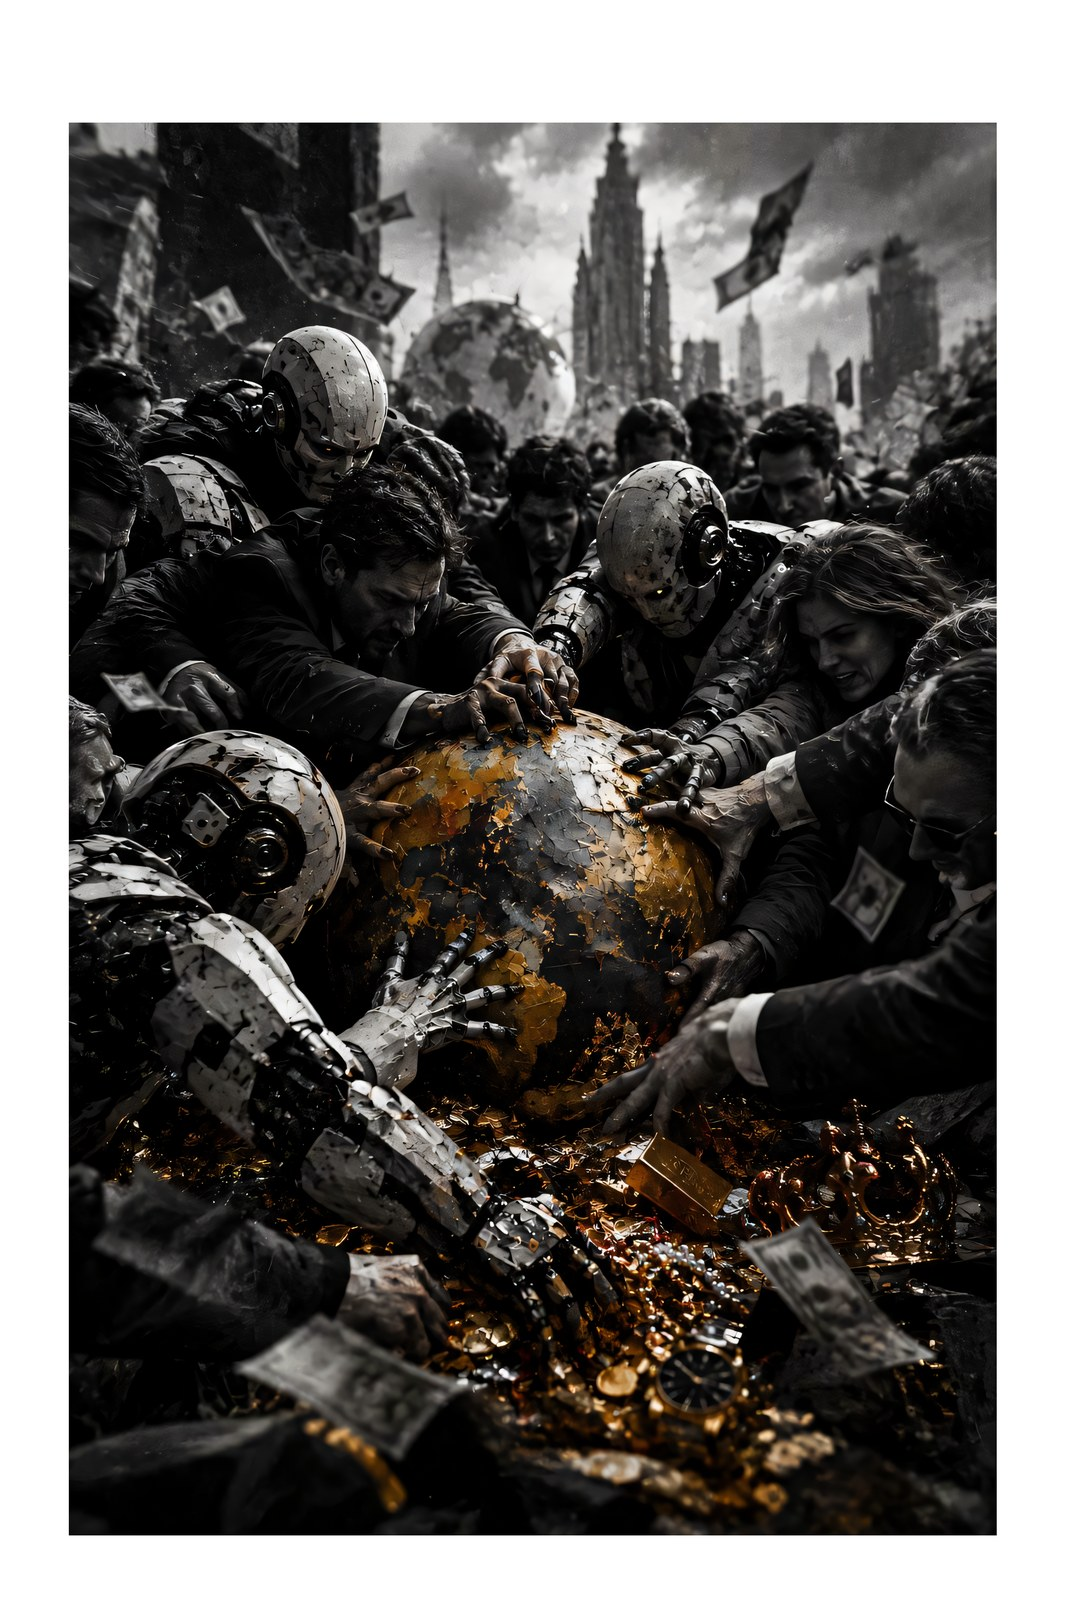
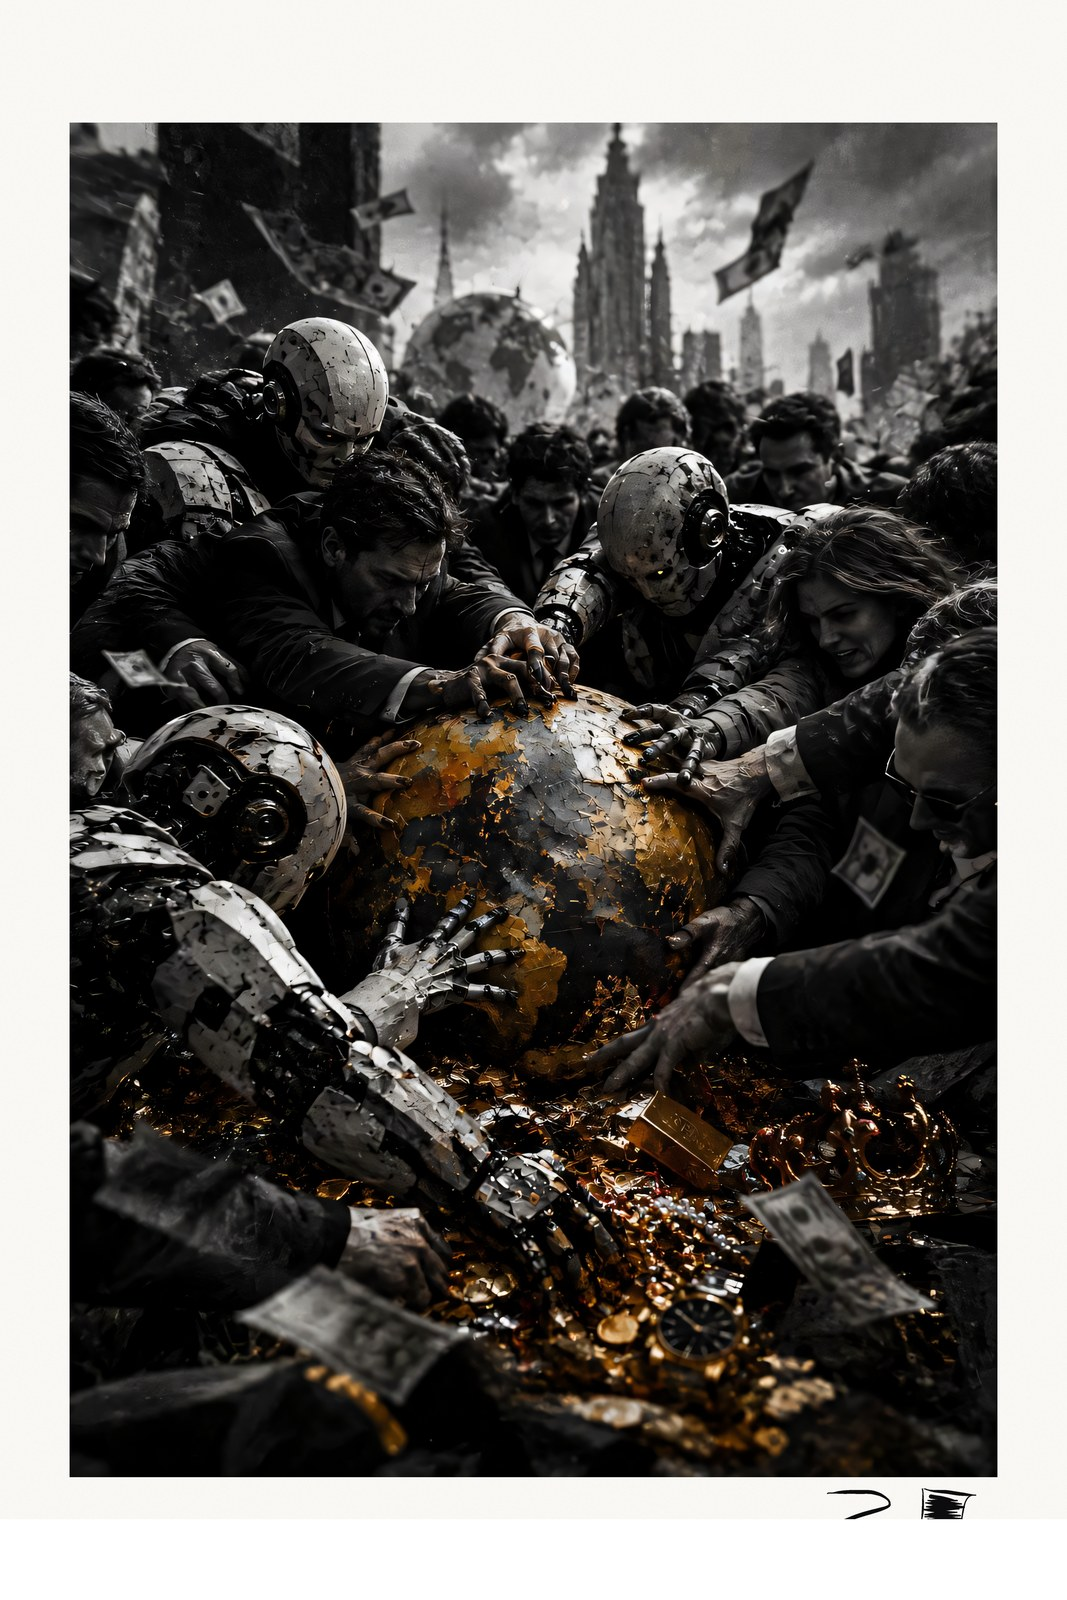
Certificados fuera del repo, precios 350/450 y sala de Avaricia con la plantilla y la firma

diff --git a/obras/avaricia.html b/obras/avaricia.html
@@ -7,7 +7,7 @@
 <meta name="description" content="Avaricia (2026), obra original de David Ortiz. Pieza única 1 de 1, técnica mixta, firmada a mano y con certificado. 40 x 60 cm. Adquiérela en MNEMOS.">
 <meta property="og:title" content="Avaricia, 2026 · Obra original de David Ortiz">
 <meta property="og:description" content="Pieza única 1 de 1. Técnica mixta, firmada y con certificado.">
-<meta property="og:image" content="https://mnemosgallery.neolabs.me/assets/obras/obra03-1600.jpg">
+<meta property="og:image" content="https://mnemosgallery.neolabs.me/assets/obras/obra02-1066.jpg">
 <meta property="og:type" content="website">
 <link rel="canonical" href="https://mnemosgallery.neolabs.me/obras/avaricia.html">
 <link rel="icon" href="../assets/logo/favicon-512.png">
@@ -15,35 +15,42 @@
 </head>
 <body>
 
-<section class="sala">
-  <div class="wrap sala-in">
-
-    <div class="sala-cab">
-      <a href="../index.html">MNEMOS · Museo de arte</a>
-      <a href="../index.html#coleccion">← Volver a la exposición</a>
+<header class="sala-bar">
+  <div class="wrap sala-bar-in">
+    <a class="sala-marca" href="../index.html">MNEMOS</a>
+    <div class="sala-nav">
+      <span class="sala-cuenta">Colección Future · Obra 3 de 12</span>
+      <a class="sala-volver" href="../index.html#coleccion">&larr; Volver a la exposición</a>
     </div>
+  </div>
+</header>
 
-    <div class="sala-obra">
-      <img src="../assets/obras/obra03-1600.jpg" alt="Avaricia, obra original de David Ortiz: decenas de manos de empresarios y de robots arrancan el oro de un mundo agotado" width="1066" height="1600">
-    </div>
+<main class="sala">
+  <div class="wrap">
+
+    <figure class="sala-obra">
+      <button class="sala-lienzo" id="abre-lupa" aria-label="Ver la obra en grande" aria-controls="lupa">
+        <img src="../assets/obras/obra02-1066.jpg" alt="Avaricia, obra original de David Ortiz: decenas de manos de empresarios y de robots arrancan el oro del mundo" width="1066" height="1599">
+      </button>
+      <figcaption class="sala-pie-foto">Avaricia · 2026 · Técnica mixta<span>Pulsa la obra para verla en grande</span></figcaption>
+    </figure>
 
     <div class="sala-pie">
 
       <div>
         <div class="cartela">
           <h1>Avaricia</h1>
-          <div class="anio">2026</div>
+          <div class="anio">2026 · Técnica mixta</div>
           <dl>
-            <dt>Técnica</dt><dd>Técnica mixta. Impresión giclée sobre papel fine art mate de archivo 200 g/m², libre de ácido</dd>
-            <dt>Medidas</dt><dd>40 × 60 cm</dd>
+            <dt>Medidas</dt><dd>40 × 60 cm (16 × 24 pulgadas)</dd>
             <dt>Soporte</dt><dd>Papel fine art mate de archivo 200 g/m², libre de ácido</dd>
+            <dt>Impresión</dt><dd>Giclée de 12 tintas</dd>
             <dt>Edición</dt><dd>Pieza única. No se volverá a imprimir</dd>
-            <dt>Firma</dt><dd>Firmada a mano en el margen</dd>
-            <dt>Certificado</dt><dd>Incluido, numerado y verificable</dd>
+            <dt>Firma</dt><dd>Firma del artista en el margen de la obra</dd>
+            <dt>Certificado</dt><dd>Incluido, numerado y verificable con código</dd>
           </dl>
           <div class="unica">Pieza única · 1 de 1</div>
         </div>
-        <img class="sello-sala" src="../assets/logo/mnemos-simbolo.png" alt="Sello de MNEMOS">
       </div>
 
       <div class="hist">
@@ -51,31 +58,63 @@
         <p>Un mundo ya cubierto de oro y decenas de manos arrancándolo a la vez: empresarios de traje, robots humanoides, humanos a medio construir y humanos que ya no tienen nada de humanos. No se reparten nada: forcejean. Todos tiran en la misma dirección y nadie suelta.</p>
         <p>La avaricia no es un vicio del pasado: es el motor del futuro. La inteligencia artificial, las máquinas y la fusión entre el hombre y el robot no vienen a repartir el mundo, vienen a quedárselo. Y a pasar por encima de quien haga falta para conseguirlo.</p>
         <p>A sus pies, lo que ya saquearon: billetes, coronas, relojes, joyas. Al fondo, las torres que lo gobiernan todo y las banderas de un mundo que se reparte sin preguntar a nadie.</p>
-        <img class="firma-s" src="../assets/logo/firma-blanca.png" alt="Firma de David Ortiz">
+        <img class="firma-s" src="../assets/logo/firma-blanca.png" alt="Firma de David Ortiz"><figcaption>David Ortiz · firma del artista</figcaption></figure>
 
         <div class="compra">
-          <div>
-            <div class="precio">250 €</div>
-            <div class="nota">Envío mundial incluido · 5-12 días laborables según destino</div>
+          <div class="linea-precio">
+            <div class="precio">450 €</div>
+            <div class="nota">Envío mundial incluido · 5 a 12 días laborables según destino</div>
+            <div class="escalera">Obra 2 de 12 · cada obra nueva cuesta 100 € más que la anterior</div>
           </div>
-          <a class="btn btn-oro" href="https://buy.stripe.com/28EbJ08jOa7Ic746rScs809" target="_blank" rel="noopener">Adquirir esta obra</a>
-          <a class="btn btn-linea" href="../index.html#contacto">Preguntar al artista</a>
+          <div class="botones">
+            <a class="btn btn-oro" href="https://buy.stripe.com/3cIfZgfMggw6efceYocs80e" target="_blank" rel="noopener">Adquirir esta obra</a>
+            <a class="btn btn-linea" href="../index.html#contacto">Preguntar al artista</a>
+          </div>
+          <div class="garantias">
+            <span>Certificado numerado</span>
+            <span>Embalaje rígido</span>
+            <span>Pago seguro con tarjeta</span>
+          </div>
         </div>
       </div>
 
     </div>
+
+    <nav class="sala-paseo" aria-label="Recorrido por la exposición">
+      <a href="eirene-7.html">&larr; Eirene-7</a>
+      <span class="sep">Obra 3 de 12</span>
+      <a href="../index.html#coleccion">La exposición &rarr;</a>
+    </nav>
+
   </div>
-</section>
+</main>
+
+<div class="lupa" id="lupa" hidden>
+  <button class="lupa-cerrar" id="cierra-lupa" aria-label="Cerrar la vista grande">&times;</button>
+  <img src="../assets/obras/obra02-1066.jpg" alt="Avaricia, obra original de David Ortiz: decenas de manos de empresarios y de robots arrancan el oro del mundo">
+</div>
 
 <footer style="background:#0E0D0C">
   <div class="wrap">
     <img class="logo-f" src="../assets/logo/mnemos-oscuro.png" alt="MNEMOS">
     <div>MNEMOS · Museo de arte · Obra original de David Ortiz</div>
-    <div style="margin-top:14px"><a href="../index.html">Inicio</a> · <a href="../legales/aviso-legal.html">Aviso legal</a> · <a href="../legales/privacidad.html">Privacidad</a> · <a href="../legales/terminos.html">Términos de venta</a></div>
+    <nav class="pie-enlaces"><a href="../index.html">Inicio</a><a href="../legales/aviso-legal.html">Aviso legal</a><a href="../legales/privacidad.html">Privacidad</a><a href="../legales/terminos.html">Términos de venta</a></nav>
   </div>
 </footer>
 
 <script>
+/* ver la obra en grande */
+(function(){
+  var lupa=document.getElementById('lupa'), abre=document.getElementById('abre-lupa'), cierra=document.getElementById('cierra-lupa');
+  if(!lupa||!abre) return;
+  function abrir(){ lupa.hidden=false; document.body.style.overflow='hidden'; if(cierra) cierra.focus(); }
+  function cerrar(){ lupa.hidden=true; document.body.style.overflow=''; abre.focus(); }
+  abre.addEventListener('click', abrir);
+  if(cierra) cierra.addEventListener('click', cerrar);
+  lupa.addEventListener('click', function(e){ if(e.target===lupa) cerrar(); });
+  document.addEventListener('keydown', function(e){ if(e.key==='Escape' && !lupa.hidden) cerrar(); });
+})();
+
 /* si la obra ya tiene dueño, no se puede comprar */
 (function(){
   fetch('https://mnemos-pedidos.dortizs76.workers.dev/estado').then(function(r){return r.json()}).then(function(d){

diff --git a/index.html b/index.html
@@ -103,7 +103,7 @@
         <div class="obra-info">
           <h3>Avaricia</h3>
           <p>2026 &middot; Técnica mixta &middot; 40 &times; 60 cm</p>
-          <span class="disp">Disponible &middot; 250 €</span>
+          <span class="disp">Disponible &middot; 450 €</span>
         </div>
       </a>
       <div class="aviso-obra ap">
